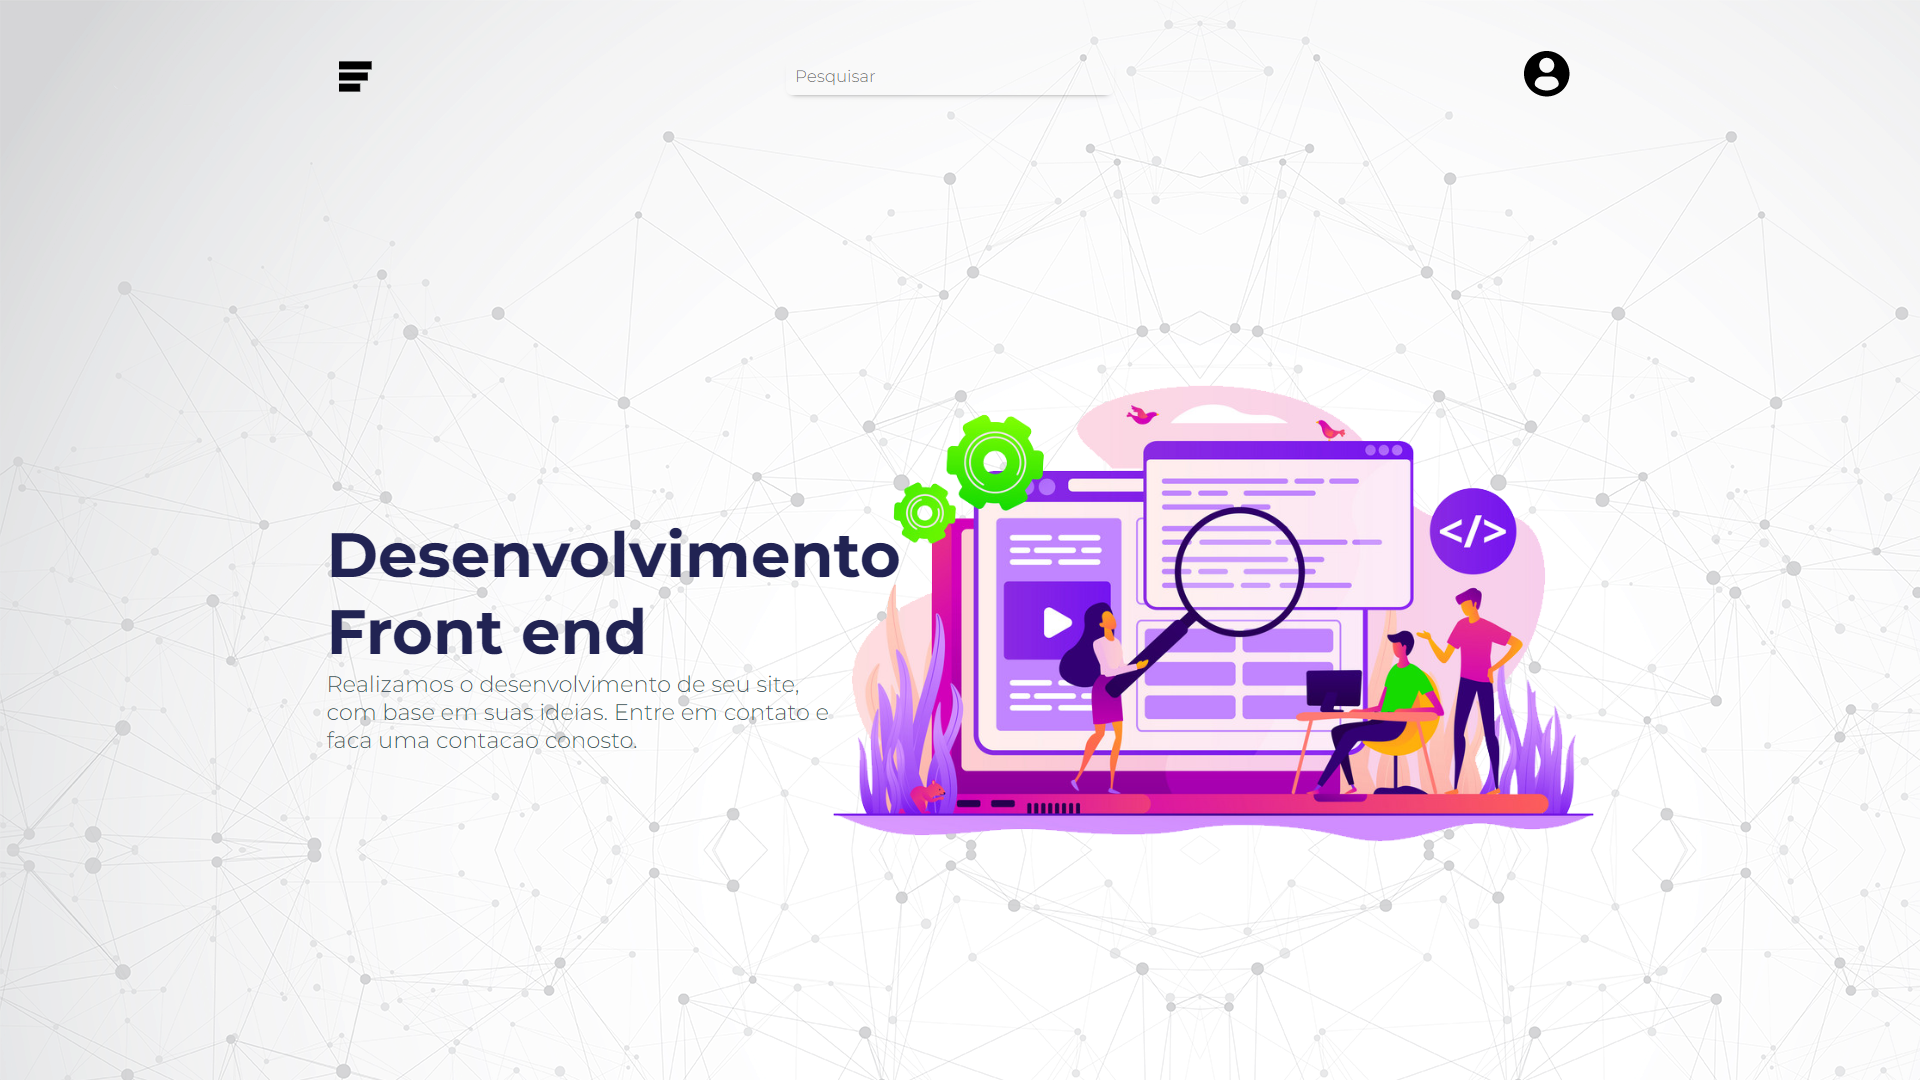
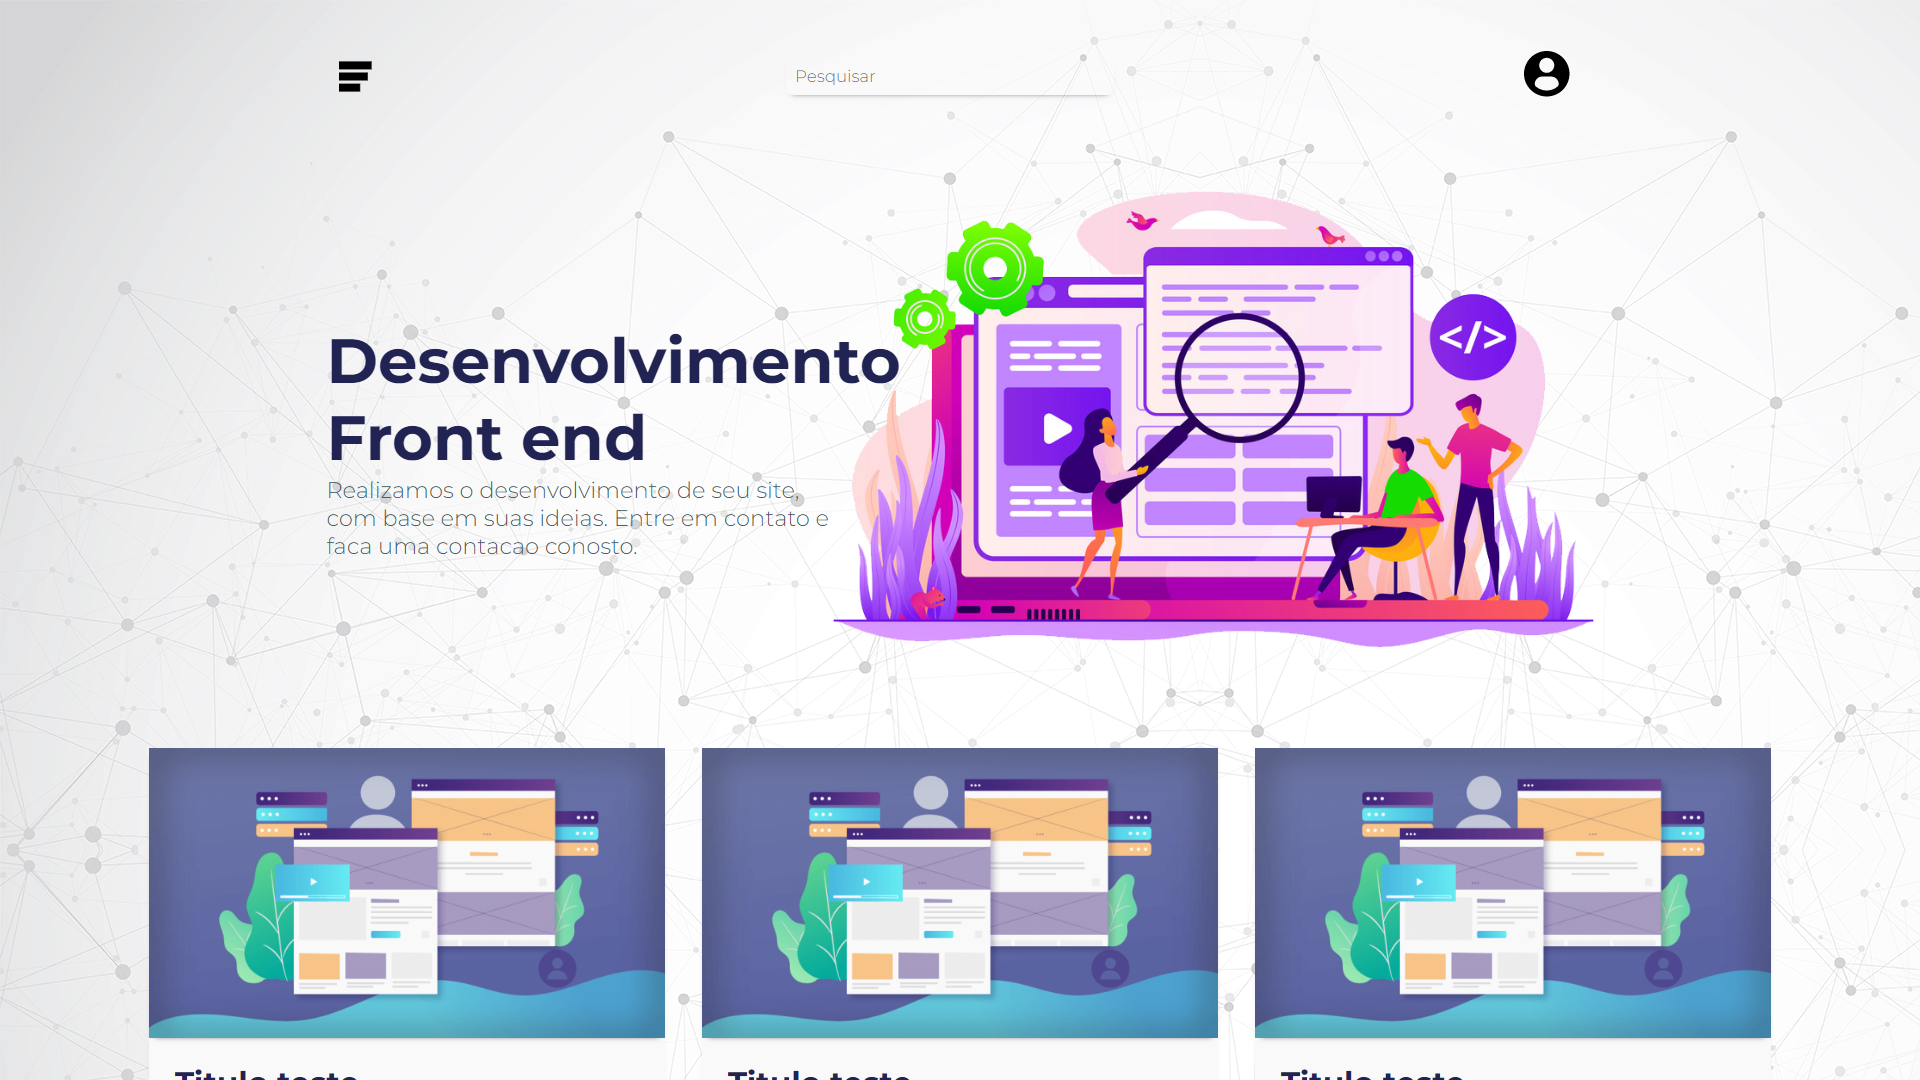
Implementacao de responsividade, para os novos elementos implementados.

diff --git a/css/style.css b/css/style.css
@@ -627,6 +627,83 @@ html, body{
 
     }
 
+    /*CONTEUDO LAYOUTS*/
+
+    #container #conteudoLayouts{
+        display: flex;
+        align-items: center;
+        justify-content: center;
+
+        padding: 2%;
+        width: 96;
+        height: auto;
+
+    }
+
+    #container #conteudoLayouts #blocoslayouts{
+        padding: 1%;
+        width: 30%;
+        height: auto;
+
+    }
+
+    #container #conteudoLayouts #blocoslayouts #imgLayouts{
+        width: 100%;
+        height: auto;
+
+        display: flex;
+        align-items: center;
+        flex-direction: column;
+        justify-content: center;
+
+        background-color: var(--backgroundColor-gray2);
+
+        box-shadow: 0px 3px 5px -5px var(--text-black);
+
+        border-radius: 0px 0px 25px 25px;
+
+    }
+
+    #container #conteudoLayouts #blocoslayouts #imgLayouts img{
+        width: 100%;
+        height: auto;
+
+        box-shadow: 0px 3px 5px -5px var(--text-black);
+
+    }
+
+    #container #conteudoLayouts #blocoslayouts #imgLayouts #textoLayouts{
+        display: flex;
+        align-items: left;
+        flex-direction: column;
+        justify-content: center;
+
+        padding: 5%;
+        width: 90%;
+        height: auto;
+
+    }
+
+    #container #conteudoLayouts #blocoslayouts #imgLayouts #textoLayouts h1{
+        width: auto;
+        height: auto;
+
+        font-size: 25px;
+        font-weight: 700;
+        color: var(--text-bold);
+
+    }
+
+    #container #conteudoLayouts #blocoslayouts #imgLayouts #textoLayouts p{
+        width: auto;
+        height: auto;
+
+        font-size: 12px;
+        font-weight: 300;
+        color: var(--text-sample);
+
+    }
+
 }
 
 @media(min-width: 361px) and (max-width: 767px){
@@ -822,6 +899,84 @@ html, body{
 
     }
 
+    /*CONTEUDO LAYOUTS*/
+
+    #container #conteudoLayouts{
+        display: flex;
+        align-items: center;
+        flex-direction: column;
+        justify-content: center;
+
+        padding: 0%;
+        width: 96%;
+        height: auto;
+
+    }
+
+    #container #conteudoLayouts #blocoslayouts{
+        padding: 2%;
+        width: 96%;
+        height: auto;
+
+    }
+
+    #container #conteudoLayouts #blocoslayouts #imgLayouts{
+        width: 100%;
+        height: auto;
+
+        display: flex;
+        align-items: center;
+        flex-direction: column;
+        justify-content: center;
+
+        background-color: var(--backgroundColor-gray2);
+
+        box-shadow: 0px 3px 5px -5px var(--text-black);
+
+        border-radius: 0px 0px 0px 0px;
+
+    }
+
+    #container #conteudoLayouts #blocoslayouts #imgLayouts img{
+        width: 100%;
+        height: auto;
+
+        box-shadow: 0px 3px 5px -5px var(--text-black);
+
+    }
+
+    #container #conteudoLayouts #blocoslayouts #imgLayouts #textoLayouts{
+        display: flex;
+        align-items: left;
+        flex-direction: column;
+        justify-content: center;
+
+        padding: 5%;
+        width: 90%;
+        height: auto;
+
+    }
+
+    #container #conteudoLayouts #blocoslayouts #imgLayouts #textoLayouts h1{
+        width: auto;
+        height: auto;
+
+        font-size: 25px;
+        font-weight: 700;
+        color: var(--text-bold);
+
+    }
+
+    #container #conteudoLayouts #blocoslayouts #imgLayouts #textoLayouts p{
+        width: auto;
+        height: auto;
+
+        font-size: 12px;
+        font-weight: 300;
+        color: var(--text-sample);
+
+    }
+
 }
 
 @media(max-width: 360px){
@@ -1013,6 +1168,84 @@ html, body{
     #container #conteudoServicos #textoServicos p{
         font-weight: 300;
         font-size: 18px;
+        color: var(--text-sample);
+
+    }
+
+    /*CONTEUDO LAYOUTS*/
+
+    #container #conteudoLayouts{
+        display: flex;
+        align-items: center;
+        flex-direction: column;
+        justify-content: center;
+
+        padding: 0%;
+        width: 96%;
+        height: auto;
+
+    }
+
+    #container #conteudoLayouts #blocoslayouts{
+        padding: 2%;
+        width: 96%;
+        height: auto;
+
+    }
+
+    #container #conteudoLayouts #blocoslayouts #imgLayouts{
+        width: 100%;
+        height: auto;
+
+        display: flex;
+        align-items: center;
+        flex-direction: column;
+        justify-content: center;
+
+        background-color: var(--backgroundColor-gray2);
+
+        box-shadow: 0px 3px 5px -5px var(--text-black);
+
+        border-radius: 0px 0px 0px 0px;
+
+    }
+
+    #container #conteudoLayouts #blocoslayouts #imgLayouts img{
+        width: 100%;
+        height: auto;
+
+        box-shadow: 0px 3px 5px -5px var(--text-black);
+
+    }
+
+    #container #conteudoLayouts #blocoslayouts #imgLayouts #textoLayouts{
+        display: flex;
+        align-items: left;
+        flex-direction: column;
+        justify-content: center;
+
+        padding: 5%;
+        width: 90%;
+        height: auto;
+
+    }
+
+    #container #conteudoLayouts #blocoslayouts #imgLayouts #textoLayouts h1{
+        width: auto;
+        height: auto;
+
+        font-size: 25px;
+        font-weight: 700;
+        color: var(--text-bold);
+
+    }
+
+    #container #conteudoLayouts #blocoslayouts #imgLayouts #textoLayouts p{
+        width: auto;
+        height: auto;
+
+        font-size: 12px;
+        font-weight: 300;
         color: var(--text-sample);
 
     }
